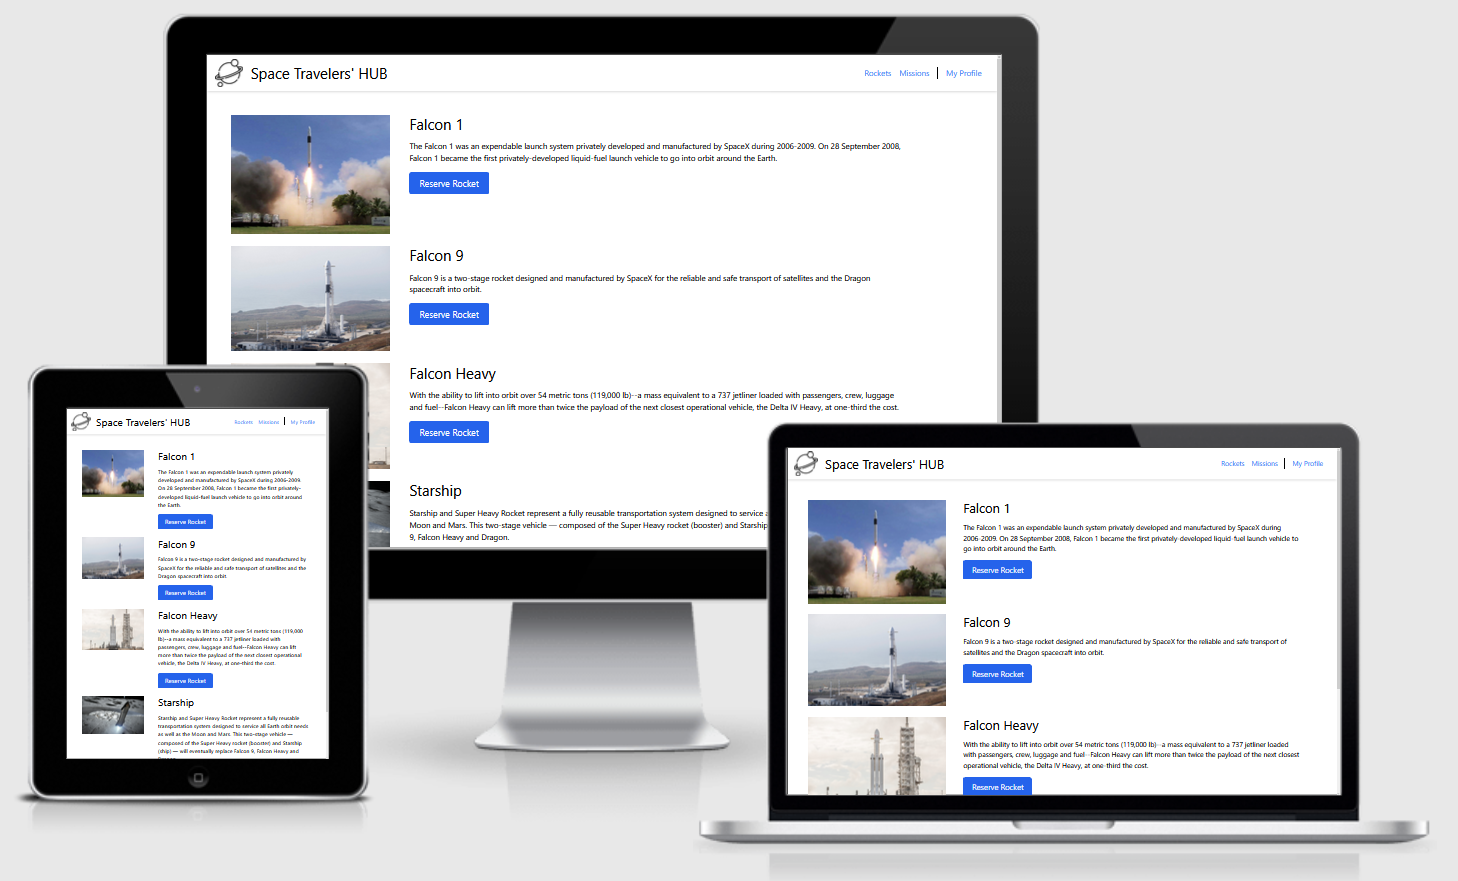
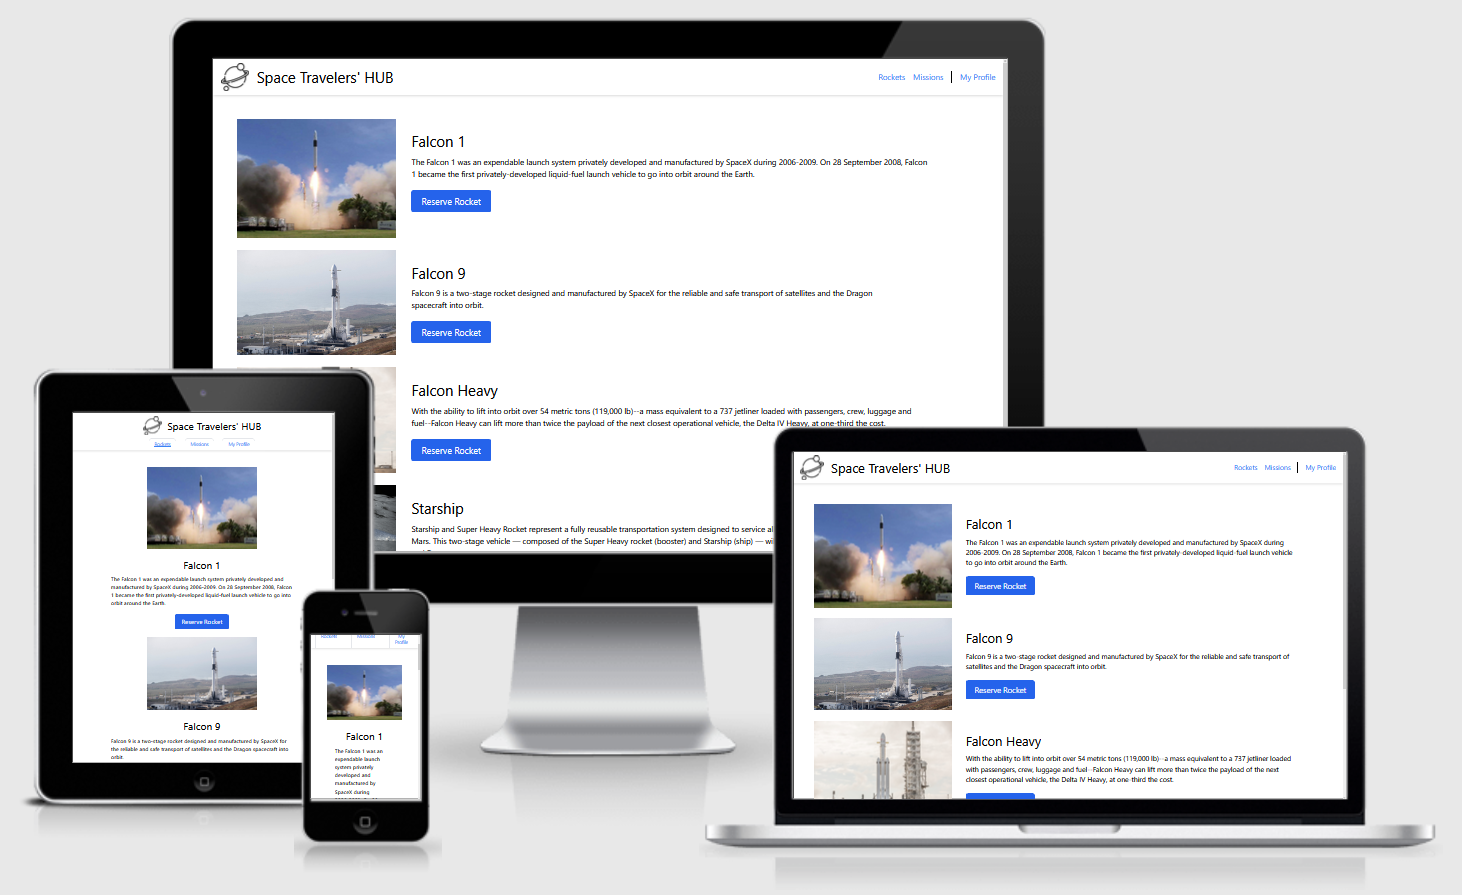
Update readme file

Changed region(s): [[0.0, 0.0, 0.9877, 0.9807]]

diff --git a/README.md b/README.md
@@ -12,21 +12,31 @@ Welcome to Space Traveler's HUB, in this web app you will be able to take a fict
 
 #### This is the home page, where you can see and interact with the available rockets
 
-![homepage-screen](./screenshots/rockets-screen.png)
+![homepage-screen](./screenshots/rockets-desktop.png)
 
 #### This is the missions page, where you can join and read about the available missions
 
-![mission-screen](./screenshots/missions-screen.png)
+![mission-screen](./screenshots/missions-desktop.png)
 
 #### Finally, this interface will help you to keep track of the rockets and mission you joined
 
-![myProfile-screen](./screenshots/myProfile-screen.png)
+![myProfile-screen](./screenshots/myProfile-desktop.png)
 
-<!-- Include some screenshots of desktop version -->
+### 📱 Mobile version
 
-<!-- ### 📱 Mobile version -->
+Here you can take a look at the different pages for the mobile version
 
-<!-- Include some screenshots of mobile version -->
+#### Home Page
+
+![homepage-screen](./screenshots/rockets-mobile.png)
+
+#### Missions Page
+
+![mission-screen](./screenshots/missions-mobile.png)
+
+#### My Profile Page
+
+![myProfile-screen](./screenshots/myProfile-mobile.png)
 
 ## ✅ Learning objectives
 
@@ -75,7 +85,7 @@ If you want to see a live demo of this project, [click here](https://react-space
 
 ## Authors
 
-👤 _Mihreteab Misganaw Aride_
+👤 **Mihreteab Misganaw Aride**
 
 - GitHub: [@Mre55](https://github.com/Mre55)
 - Twitter: [@MreMisganaw](https://twitter.com/MreMisganaw)
